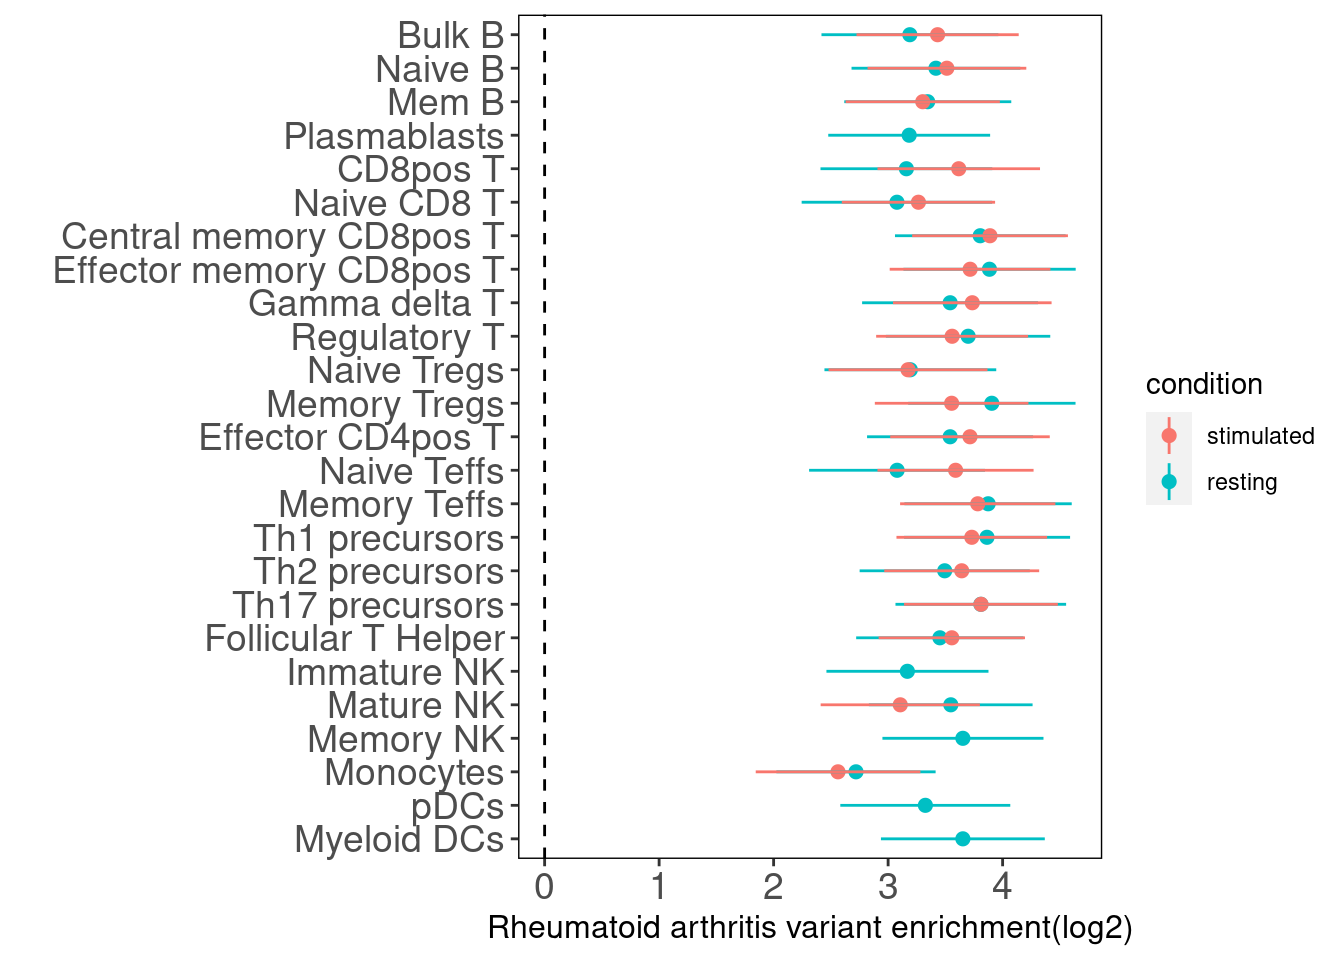
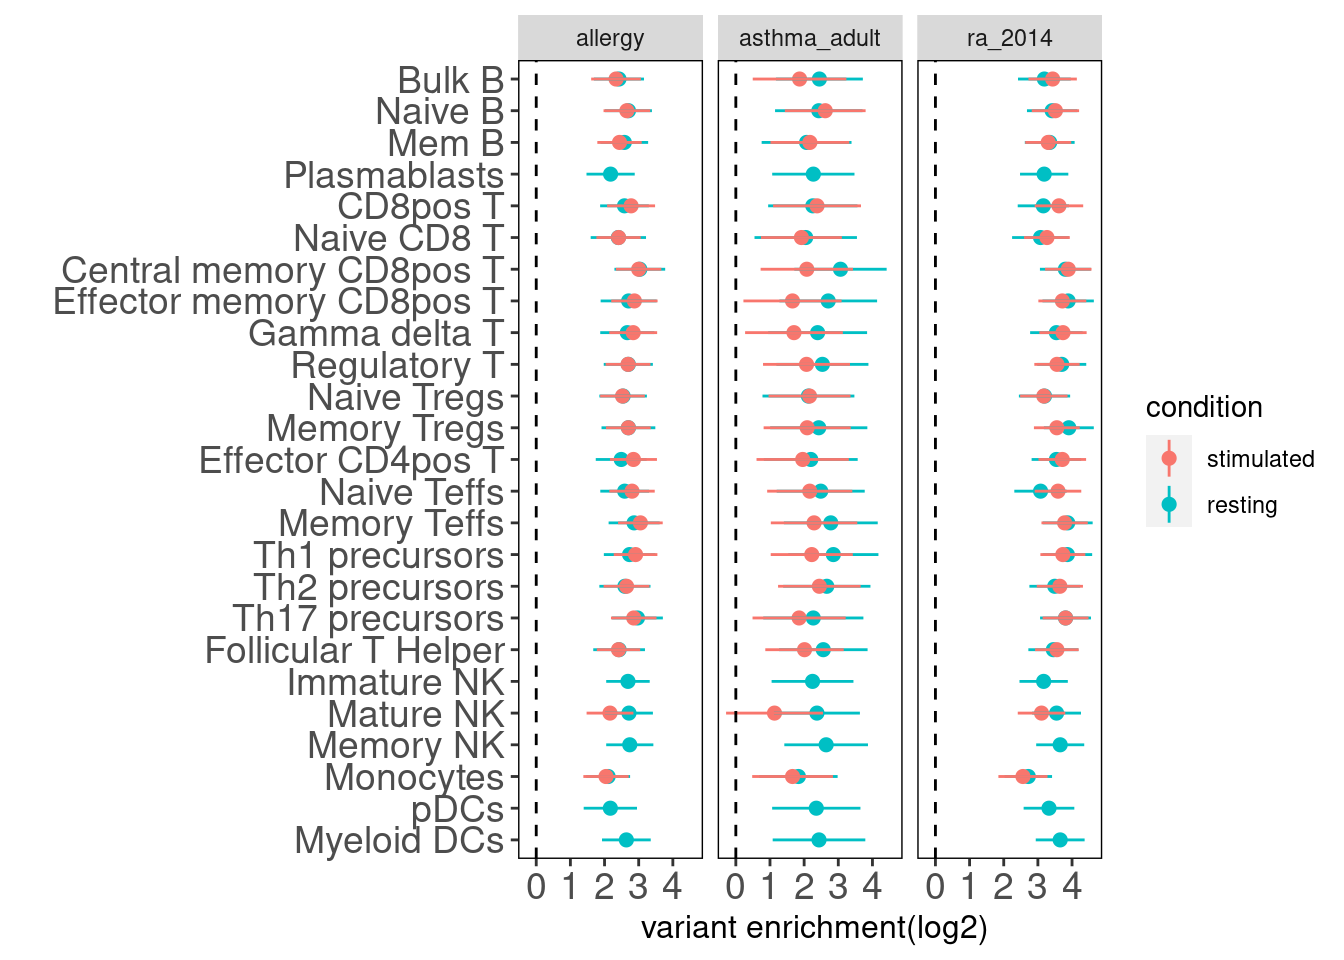
Build site.

diff --git a/docs/asthma_prelim_results.html b/docs/asthma_prelim_results.html
@@ -370,7 +370,7 @@ div.tocify {
 <div class="tab-content">
 <div id="summary" class="tab-pane fade in active">
 <p>
-<strong>Last updated:</strong> 2021-10-26
+<strong>Last updated:</strong> 2021-11-04
 </p>
 <p>
 <strong>Checks:</strong> <span class="glyphicon glyphicon-ok text-success" aria-hidden="true"></span> 7 <span class="glyphicon glyphicon-exclamation-sign text-danger" aria-hidden="true"></span> 0
@@ -461,16 +461,16 @@ This reproducible <a href="http://rmarkdown.rstudio.com">R Markdown</a> analysis
 <div class="panel panel-default">
 <div class="panel-heading">
 <p class="panel-title">
-<a data-toggle="collapse" data-parent="#workflowr-checks" href="#strongRepositoryversionstrongahrefhttpsgithubcomj3gufuncFinemappingtree1892d30ab75bd608ccc0d393c00beacbb29fe3c8targetblank1892d30a"> <span class="glyphicon glyphicon-ok text-success" aria-hidden="true"></span> <strong>Repository version:</strong> <a href="https://github.com/j3gu/funcFinemapping/tree/1892d30ab75bd608ccc0d393c00beacbb29fe3c8" target="_blank">1892d30</a> </a>
+<a data-toggle="collapse" data-parent="#workflowr-checks" href="#strongRepositoryversionstrongahrefhttpsgithubcomj3gufuncFinemappingtreedd720fe0861c0b141d2684c4500183ea9f2edcc8targetblankdd720fea"> <span class="glyphicon glyphicon-ok text-success" aria-hidden="true"></span> <strong>Repository version:</strong> <a href="https://github.com/j3gu/funcFinemapping/tree/dd720fe0861c0b141d2684c4500183ea9f2edcc8" target="_blank">dd720fe</a> </a>
 </p>
 </div>
[2 lines of base64/hex data omitted]
 <div class="panel-body">
 <p>
 Great! You are using Git for version control. Tracking code development and connecting the code version to the results is critical for reproducibility.
 </p>
 <p>
-The results in this page were generated with repository version <a href="https://github.com/j3gu/funcFinemapping/tree/1892d30ab75bd608ccc0d393c00beacbb29fe3c8" target="_blank">1892d30</a>. See the <em>Past versions</em> tab to see a history of the changes made to the R Markdown and HTML files.
+The results in this page were generated with repository version <a href="https://github.com/j3gu/funcFinemapping/tree/dd720fe0861c0b141d2684c4500183ea9f2edcc8" target="_blank">dd720fe</a>. See the <em>Past versions</em> tab to see a history of the changes made to the R Markdown and HTML files.
 </p>
 <p>
 Note that you need to be careful to ensure that all relevant files for the analysis have been committed to Git prior to generating the results (you can use <code>wflow_publish</code> or <code>wflow_git_commit</code>). workflowr only checks the R Markdown file, but you know if there are other scripts or data files that it depends on. Below is the status of the Git repository when the results were generated:
@@ -479,6 +479,7 @@ Note that you need to be careful to ensure that all relevant files for the analy
 Ignored files:
     Ignored:    .ipynb_checkpoints/
     Ignored:    analysis/ldsc_results.nb.html
+    Ignored:    analysis/mtsplice_finemapping_results.nb.html
     Ignored:    analysis/results.nb.html
     Ignored:    analysis/snp_finemapping_results.nb.html
     Ignored:    analysis/splicing.nb.html
@@ -521,6 +522,21 @@ Untracked files:
 Unstaged changes:
     Modified:   analysis/asthma_results.Rmd
     Modified:   analysis/enrichment_analysis.Rmd
+    Deleted:    output/AAD/asthma/Caldero2019_diffDA_annot_percent.txt
+    Deleted:    output/AAD/asthma/Caldero2019_stimuDA_annot_percent.txt
+    Deleted:    output/AAD/asthma/celltype_specific_adult_lungs_torus.est
+    Deleted:    output/AAD/asthma/diffe_adult_blood_torus.est
+    Deleted:    output/AAD/asthma/joint_blood_immune_rest_vs_stimu.est
+    Deleted:    output/AAD/asthma/joint_lung_vs_blood_immune_diff_torus.est
+    Deleted:    output/AAD/asthma/joint_lung_vs_blood_immune_stimu_torus.est
+    Deleted:    output/AAD/asthma/lung_clusters_dict.txt
+    Deleted:    output/AAD/asthma/lung_clusters_info.txt
+    Deleted:    output/AAD/asthma/stimu_adult_blood_torus.est
+    Deleted:    output/AAD/asthma/torus_enrichment_all_rest.est
+    Deleted:    output/AAD/asthma/torus_enrichment_all_stimulated.est
+    Deleted:    output/AAD/asthma/zhang2021_annot_percent.txt
+    Deleted:    output/AAD/asthma/zhang2021_cell_type_overlaps.txt
+    Deleted:    output/AAD/asthma/zhang2021_peaks_per_celltype.txt
     Deleted:    output/asthma/Caldero2019_diffDA_annot_percent.txt
     Deleted:    output/asthma/Caldero2019_stimuDA_annot_percent.txt
     Deleted:    output/asthma/celltype_specific_adult_lungs_torus.est
@@ -571,6 +587,40 @@ Message
 </tr>
 </thead>
 <tbody>
+<tr>
+<td>
+Rmd
+</td>
+<td>
+<a href="https://github.com/j3gu/funcFinemapping/blob/dd720fe0861c0b141d2684c4500183ea9f2edcc8/analysis/asthma_prelim_results.Rmd" target="_blank">dd720fe</a>
+</td>
+<td>
+Jing Gu
+</td>
+<td>
+2021-11-04
+</td>
+<td>
+enrichment analysis for AAD traits
+</td>
+</tr>
+<tr>
+<td>
+html
+</td>
+<td>
+<a href="https://rawcdn.githack.com/j3gu/funcFinemapping/8a43e8f8e060a960ba68d1c66572cca663872233/docs/asthma_prelim_results.html" target="_blank">8a43e8f</a>
+</td>
+<td>
+Jing Gu
+</td>
+<td>
+2021-10-26
+</td>
+<td>
+Build site.
+</td>
+</tr>
 <tr>
 <td>
 Rmd
@@ -663,12 +713,12 @@ test enrichment for asthma risk variants
 </div>
 </div>
 </div>
-<div id="cell-type-specific-annotations" class="section level2">
-<h2>cell-type specific annotations</h2>
+<div id="cell-type-resolved-annotations" class="section level2">
+<h2>cell-type resolved annotations</h2>
 <p><em>Caldero et al. 2019</em> - ATAC-Seq data for FACS-sorted cells from whole blood<br />
 I extracted ATAC-Seq peaks specific to each immune cell type from the count table that consists of a union set of peaks across cells based on the provided cutoffs.</p>
-<div id="rheumatoid-arthritis" class="section level3">
-<h3>Rheumatoid arthritis</h3>
+<div id="immune-traits" class="section level3">
+<h3>immune traits</h3>
 <p>This analysis was done to replicate the enrichment results from figure 5b in the paper. Overall, the magnitude of enrichment estimates are much smaller than that in figure 5b. I could not find their resouce of GWAS dataset, but I believe that I used a different GWAS data set for RA. They claimed 20% per-SNP heritability for RA, while the dataset in 2014 I used only found 8% genome-wide heritability. They used LDSC to estimate enrichment estimates. The stimulated immune cells tend to have slightly higher enrichment estimates, but not as significant due to overlapped CIs. However, the figure in the paper demonstrates strong enrichment of stimulated-related peaks for cells such as Bulk B, naive B, CD8+ T and Th1. <img src="figure/asthma_prelim_results.Rmd/unnamed-chunk-1-1.png" width="672" style="display: block; margin: auto;" /></p>
 <p>
 <button type="button" class="btn btn-default btn-xs btn-workflowr btn-workflowr-fig" data-toggle="collapse" data-target="#fig-unnamed-chunk-1-1">
@@ -707,10 +757,22 @@ Jing Gu
 </table>
 </div>
 </div>
+<p>For Asthma, we did not see stronger enrichment of stimulated-related peaks compared with resting ones. But overall all immune cells whether or not stimulated (except for the stimulated mature NK) are significantly enriched for GWAS risk variants.</p>
 </div>
-<div id="adult-onset-asthma" class="section level3">
-<h3>Adult-Onset Asthma</h3>
-<p>For Asthma, we did not see stronger enrichment of stimulated-related peaks compared with resting ones. But overall all immune cells whether or not stimulated (except for the stimulated mature NK) are significantly enriched for GWAS risk variants. <img src="figure/asthma_prelim_results.Rmd/unnamed-chunk-2-1.png" width="672" style="display: block; margin: auto;" /></p>
+</div>
+<div id="joint-enrichment-analysis" class="section level2">
+<h2>Joint Enrichment analysis</h2>
+<div id="immune-cells-grouped-by-lineages" class="section level3">
+<h3>Immune cells grouped by lineages</h3>
+<p>Immune cells were grouped into six main categories and merged across two conditions. The peaks in these groups can be overlapped.</p>
+<ul>
+<li>NK</li>
+<li>B cells</li>
+<li>CD4+</li>
+<li>CD8+</li>
+<li>Myeloids</li>
+<li>Gamma delta T <img src="figure/asthma_prelim_results.Rmd/unnamed-chunk-2-1.png" width="672" style="display: block; margin: auto;" /></li>
+</ul>
 <p>
 <button type="button" class="btn btn-default btn-xs btn-workflowr btn-workflowr-fig" data-toggle="collapse" data-target="#fig-unnamed-chunk-2-1">
 Past versions of unnamed-chunk-2-1.png
@@ -749,9 +811,9 @@ Jing Gu
 </div>
 </div>
 </div>
-<div id="allergy" class="section level3">
-<h3>Allergy</h3>
-<p><img src="figure/asthma_prelim_results.Rmd/unnamed-chunk-3-1.png" width="672" style="display: block; margin: auto;" /></p>
+<div id="immune-cells-grouped-by-lineages-1" class="section level3">
+<h3>Immune cells grouped by lineages</h3>
+<p>Immune cells were grouped into six main categories but compared across conditions. <img src="figure/asthma_prelim_results.Rmd/unnamed-chunk-3-1.png" width="960" style="display: block; margin: auto;" /></p>
 <p>
 <button type="button" class="btn btn-default btn-xs btn-workflowr btn-workflowr-fig" data-toggle="collapse" data-target="#fig-unnamed-chunk-3-1">
 Past versions of unnamed-chunk-3-1.png
@@ -790,12 +852,11 @@ Jing Gu
 </div>
 </div>
 </div>
-</div>
-<div id="joint-enrichment-of-a-pair-of-annotations" class="section level2">
-<h2>Joint Enrichment of a pair of annotations</h2>
-<div id="adult-onset-asthma-1" class="section level3">
-<h3>Adult-Onset Asthma</h3>
-<p>A pair of annotations - stimulated and resting for each immune cell type was jointly tested for their enrichment of GWAS risk variants. We observed many cell types share GWAS association signals. Conditional on resting cells,there are five stimulated cell types still show enrichment including Naive B, Memory B, CD8+ T , Naive CD8+ T and Naive Tregs cells. <img src="figure/asthma_prelim_results.Rmd/unnamed-chunk-4-1.png" width="672" style="display: block; margin: auto;" /></p>
+<div id="disjoint-groups-by-lineage" class="section level3">
+<h3>disjoint groups by lineage</h3>
+<pre><code>Warning: Removed 1 rows containing missing values (geom_segment).</code></pre>
+<pre><code>Warning: Removed 2 rows containing missing values (geom_segment).</code></pre>
+<p><img src="figure/asthma_prelim_results.Rmd/unnamed-chunk-4-1.png" width="672" style="display: block; margin: auto;" /></p>
 <p>
 <button type="button" class="btn btn-default btn-xs btn-workflowr btn-workflowr-fig" data-toggle="collapse" data-target="#fig-unnamed-chunk-4-1">
 Past versions of unnamed-chunk-4-1.png
@@ -834,15 +895,9 @@ Jing Gu
 </div>
 </div>
 </div>
-</div>
-<div id="annotations---differential-accessible-peaks" class="section level2">
-<h2>Annotations - Differential accessible peaks</h2>
-<p><em>Caldero et al. 2019</em></p>
-<ul>
-<li>Significant differentially accessible regions when compared to progenitor cells</li>
-<li>Significant differentially accessible regions under stimulation</li>
-</ul>
-<p><img src="figure/asthma_prelim_results.Rmd/unnamed-chunk-5-1.png" width="672" style="display: block; margin: auto;" /></p>
+<div id="other-datasets-ulirsch2019" class="section level3">
+<h3>Other datasets Ulirsch2019</h3>
+<p>test enrichment in other immune cell types such as granulocytes. <img src="figure/asthma_prelim_results.Rmd/unnamed-chunk-5-1.png" width="672" style="display: block; margin: auto;" /></p>
 <p>
 <button type="button" class="btn btn-default btn-xs btn-workflowr btn-workflowr-fig" data-toggle="collapse" data-target="#fig-unnamed-chunk-5-1">
 Past versions of unnamed-chunk-5-1.png
@@ -867,6 +922,17 @@ Date
 <tbody>
 <tr>
 <td>
+<a href="https://github.com/j3gu/funcFinemapping/blob/8a43e8f8e060a960ba68d1c66572cca663872233/docs/figure/asthma_prelim_results.Rmd/unnamed-chunk-5-1.png" target="_blank">8a43e8f</a>
+</td>
+<td>
+Jing Gu
+</td>
+<td>
+2021-10-26
+</td>
+</tr>
+<tr>
+<td>
 <a href="https://github.com/j3gu/funcFinemapping/blob/5b65bd10f715e7c6d2f8dffdcac3cfb13feac2cf/docs/figure/asthma_prelim_results.Rmd/unnamed-chunk-5-1.png" target="_blank">5b65bd1</a>
 </td>
 <td>
@@ -880,6 +946,16 @@ Jing Gu
 </table>
 </div>
 </div>
+</div>
+</div>
+<div id="annotations---differential-accessible-peaks" class="section level2">
+<h2>Annotations - Differential accessible peaks</h2>
+<p><em>Caldero et al. 2019</em></p>
+<ul>
+<li>Significant differentially accessible regions when compared to progenitor cells</li>
+<li>Significant differentially accessible regions under stimulation</li>
+</ul>
+<p><img src="figure/asthma_prelim_results.Rmd/unnamed-chunk-6-1.png" width="672" style="display: block; margin: auto;" /></p>
 <br>
 <p>
 <button type="button" class="btn btn-default btn-workflowr btn-workflowr-sessioninfo" data-toggle="collapse" data-target="#workflowr-sessioninfo" style="display: block;">
